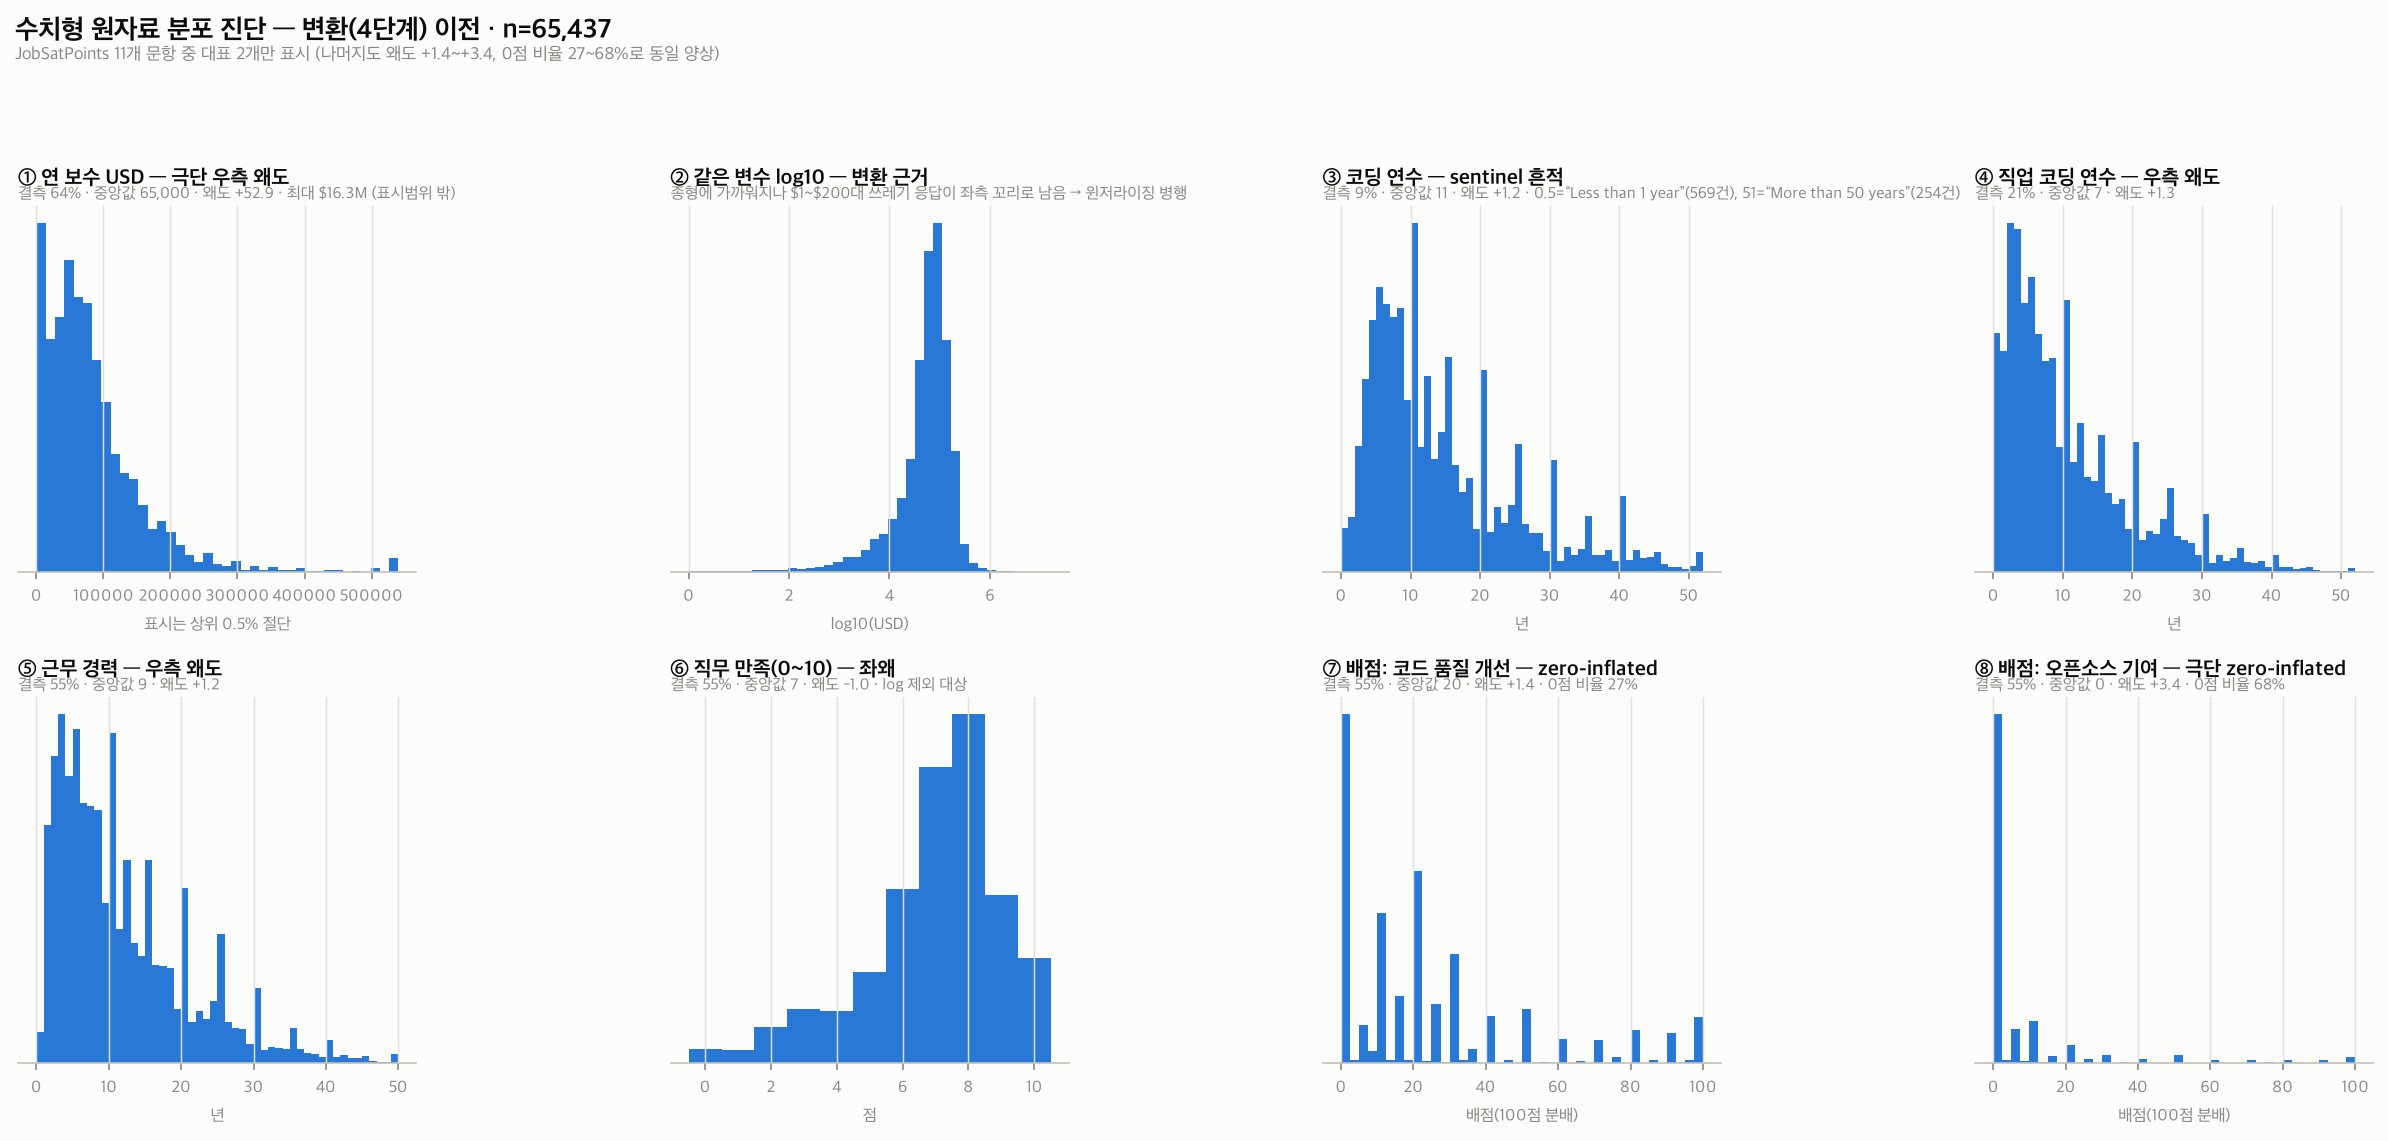
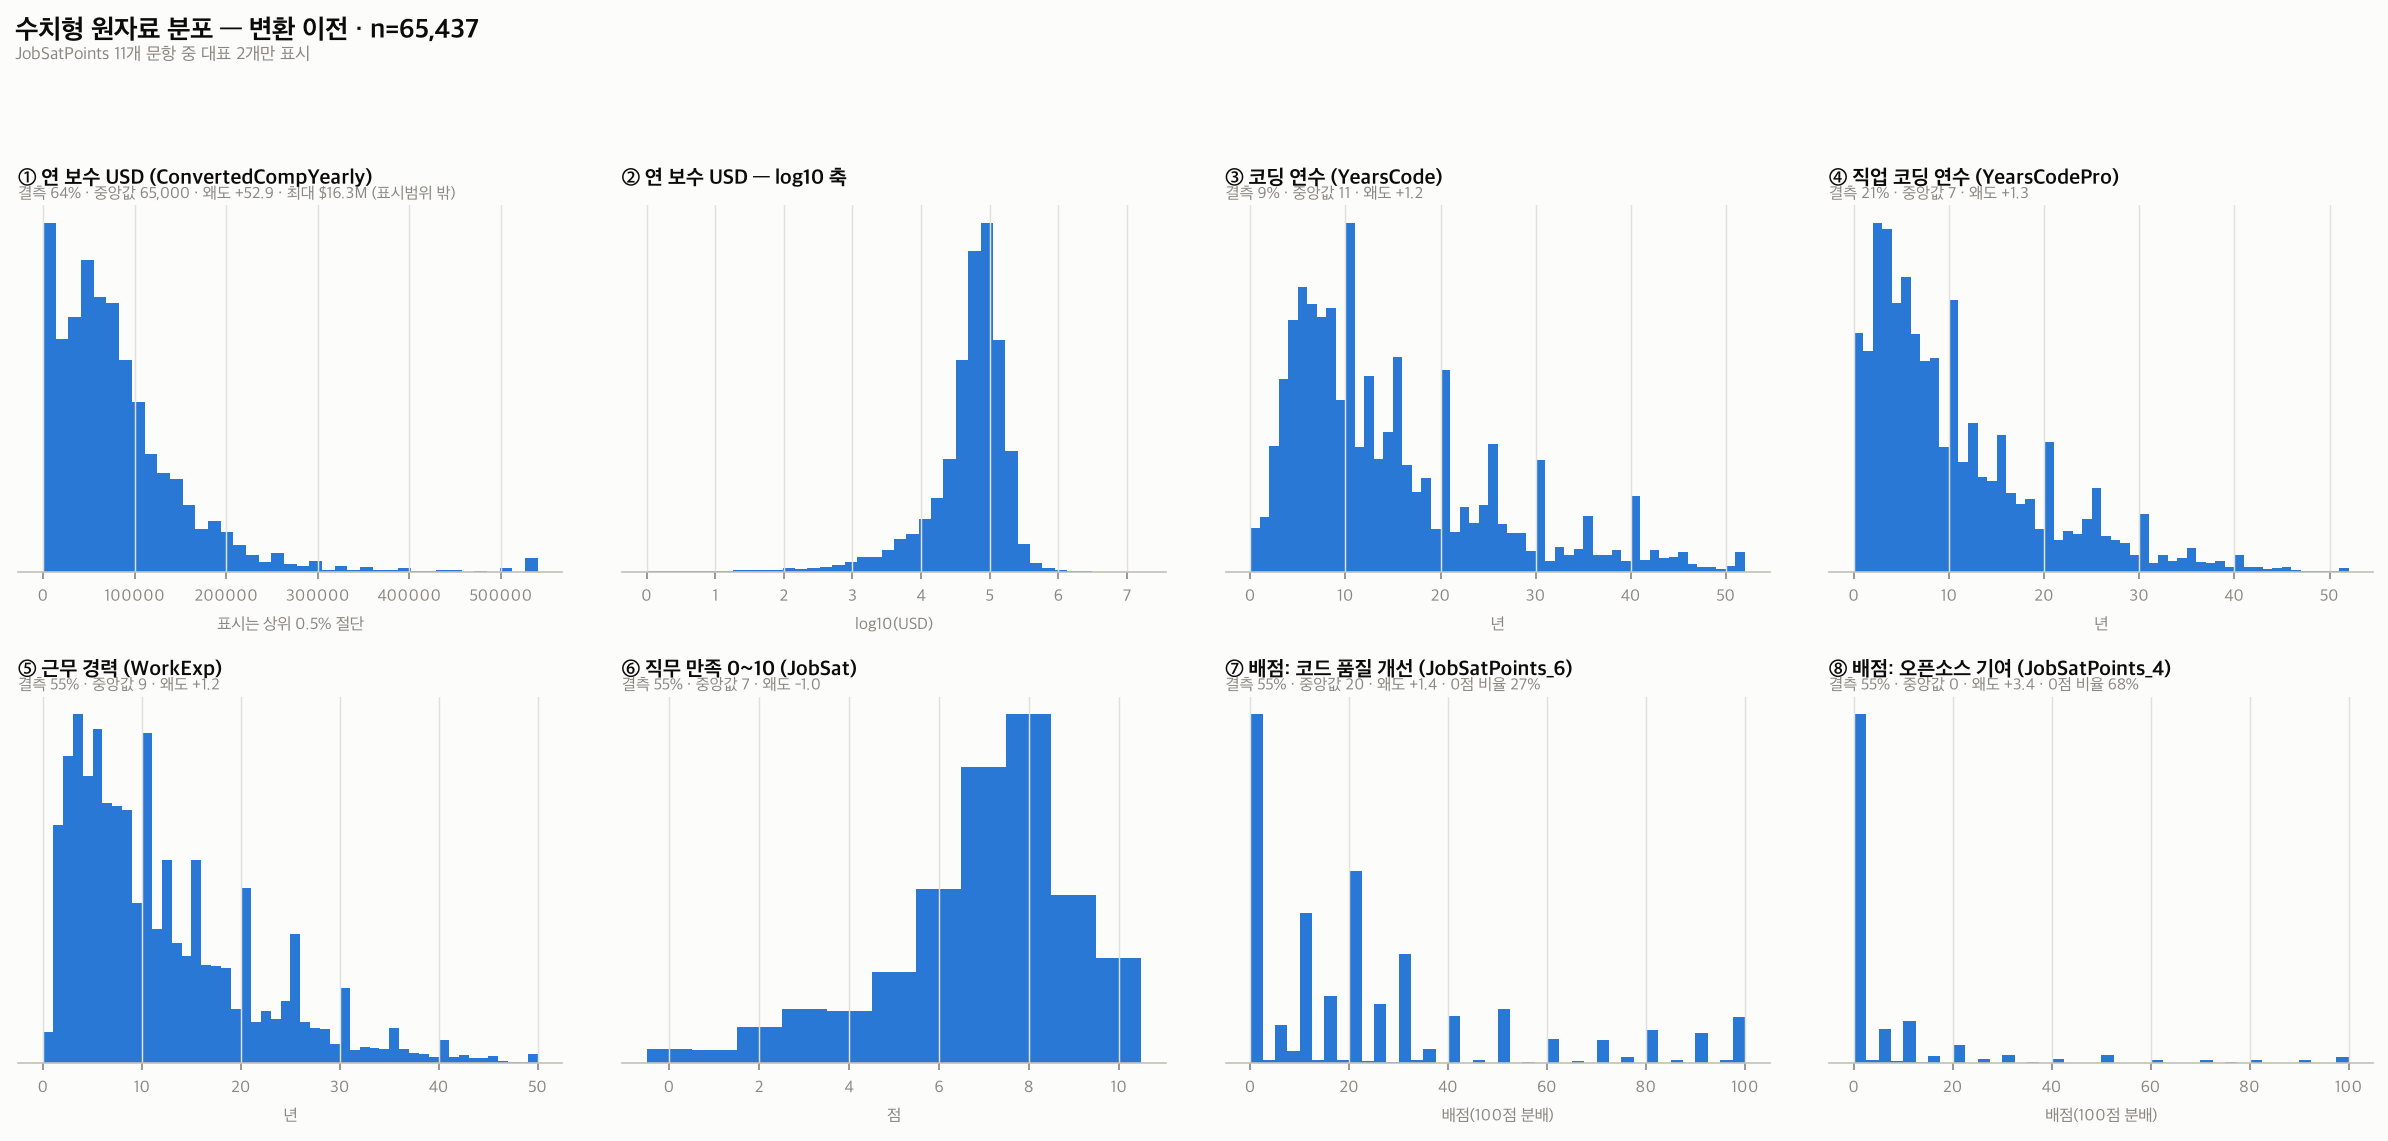
fix: 분포 그림 패널 제목에서 해석 문구 제거, 컬럼명 표기로 변경

diff --git a/src/visualize_raw_dist.py b/src/visualize_raw_dist.py
@@ -88,44 +88,42 @@ def main() -> None:
     comp = df["ConvertedCompYearly"]
     p995 = comp.quantile(0.995)
     draw(ax[0], comp.clip(upper=p995), np.linspace(0, p995, 40),
-         "① 연 보수 USD — 극단 우측 왜도",
+         "① 연 보수 USD (ConvertedCompYearly)",
          f"{stat_line(comp, n)} · 최대 \\${comp.max() / 1e6:.1f}M (표시범위 밖)",
          "표시는 상위 0.5% 절단")
     draw(ax[1], np.log10(comp.dropna()), 40,
-         "② 같은 변수 log10 — 변환 근거",
-         "종형에 가까워지나 \\$1~\\$200대 쓰레기 응답이 좌측 꼬리로 남음 → 윈저라이징 병행",
+         "② 연 보수 USD — log10 축",
+         "",
          "log10(USD)")
     yc = df["YearsCode"]
     draw(ax[2], yc, np.arange(0, 53, 1),
-         "③ 코딩 연수 — sentinel 흔적",
-         f"{stat_line(yc, n)} · 0.5=“Less than 1 year”(569건), "
-         "51=“More than 50 years”(254건)", "년")
+         "③ 코딩 연수 (YearsCode)",
+         stat_line(yc, n), "년")
     draw(ax[3], df["YearsCodePro"], np.arange(0, 53, 1),
-         "④ 직업 코딩 연수 — 우측 왜도",
+         "④ 직업 코딩 연수 (YearsCodePro)",
          stat_line(df["YearsCodePro"], n), "년")
     draw(ax[4], df["WorkExp"], np.arange(0, 51, 1),
-         "⑤ 근무 경력 — 우측 왜도",
+         "⑤ 근무 경력 (WorkExp)",
          stat_line(df["WorkExp"], n), "년")
     draw(ax[5], df["JobSat"], np.arange(-0.5, 11.5, 1),
-         "⑥ 직무 만족(0~10) — 좌왜",
-         stat_line(df["JobSat"], n) + " · log 제외 대상", "점")
+         "⑥ 직무 만족 0~10 (JobSat)",
+         stat_line(df["JobSat"], n), "점")
     js6, js4 = df["JobSatPoints_6"], df["JobSatPoints_4"]
 
     def zero_pct(s: pd.Series) -> str:
         return f"0점 비율 {100 * (s.dropna() == 0).mean():.0f}%"
 
     draw(ax[6], js6, np.arange(0, 102, 2.5),
-         "⑦ 배점: 코드 품질 개선 — zero-inflated",
+         "⑦ 배점: 코드 품질 개선 (JobSatPoints_6)",
          f"{stat_line(js6, n)} · {zero_pct(js6)}", "배점(100점 분배)")
     draw(ax[7], js4, np.arange(0, 102, 2.5),
-         "⑧ 배점: 오픈소스 기여 — 극단 zero-inflated",
+         "⑧ 배점: 오픈소스 기여 (JobSatPoints_4)",
          f"{stat_line(js4, n)} · {zero_pct(js4)}", "배점(100점 분배)")
 
-    fig.suptitle("수치형 원자료 분포 진단 — 변환(4단계) 이전 · n=65,437",
+    fig.suptitle("수치형 원자료 분포 — 변환 이전 · n=65,437",
                  x=0.008, y=0.995, ha="left", fontsize=13, fontweight="bold", color=INK)
     fig.text(0.008, 0.955,
-             "JobSatPoints 11개 문항 중 대표 2개만 표시 "
-             "(나머지도 왜도 +1.4~+3.4, 0점 비율 27~68%로 동일 양상)",
+             "JobSatPoints 11개 문항 중 대표 2개만 표시",
              fontsize=8.5, color=MUTED)
     fig.tight_layout(rect=[0, 0, 1, 0.93])
     fig.savefig(OUT, facecolor=SURFACE, bbox_inches="tight")
